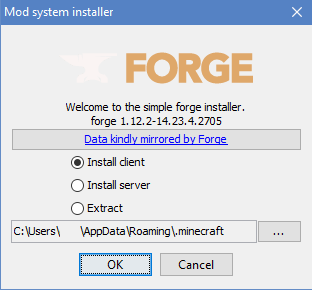
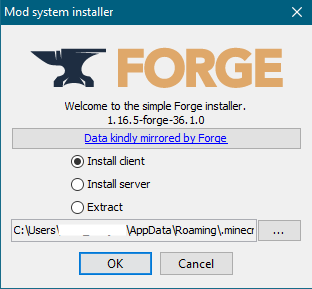
Update existing Java installation page
fix unrelated typo in scan tool page
delete old twitch installation images

diff --git a/source/installation/java.md b/source/installation/java.md
@@ -6,7 +6,7 @@ layout: default
 # Minecraft Java Edition
 
 - [Minecraft Java Edition](#minecraft-java-edition)
-    - [Installing MineColonies Mod on your original Minecraft Launcher.](#installing-minecolonies-mod-on-your-original-minecraft-launcher)
+    - [Installing MineColonies Mod on your original Minecraft Launcher](#installing-minecolonies-mod-on-your-original-minecraft-launcher)
         - [Download Forge](#download-forge)
         - [Run Forge Installer](#run-forge-installer)
         - [Download MineColonies](#download-minecolonies)
@@ -15,11 +15,11 @@ layout: default
             - [If Adding Pack, Extract it](#if-adding-pack-extract-it)
         - [Run Minecraft and Select Profile](#run-minecraft-and-select-profile)
 
-## Installing MineColonies Mod on your original Minecraft Launcher.
+## Installing MineColonies Mod on your original Minecraft Launcher
 
 - This process is for installing only the MineColonies mod in your original Minecraft launcher. You will *not* be able to connect to the **MineColonies Official Servers** due to the servers having a balanced variety of other mods as well.
 
-- For connecting to the Official Test Server, install [MultiMC](../installation/multimc) or use GDLauncher (no installation tutorial at this time). You can visit the [CurseForge](https://minecraft.curseforge.com/projects/minecolonies-testpack) site for a zip file containing all mods and the versions we are currently using on the Official Test Server, as well as all the appropriate configs, scripts and the server.dat file for our modpack Official Test Server. If all these additional mods, configs, scripts and the server.dat are downloaded and installed manually, you will be able to connect to our Official Test Server. 
+- For connecting to the official server, install [MultiMC](../installation/multimc), [GDLauncher](../installation/gdlauncher), or the [Curseforge Launcher](../installation/curseforge). You can visit the [CurseForge](https://www.curseforge.com/minecraft/modpacks/minecolonies-testpack) site for a zip file containing all mods (with the correct versions) we are currently using on the official server, as well as all the appropriate configs, scripts, and the server.dat file for our modpack official server. If all these additional mods, configs, scripts and the server.dat are downloaded and installed manually, you will be able to connect to our official server. 
 
 - Installation of the MineColonies mod is very simple. It does require Minecraft Forge to be able to integrate mods into the Minecraft game, though.
 
@@ -29,17 +29,17 @@ layout: default
 
 ### Download Forge
 
-Go to the [Minecraft Forge Download page](http://files.minecraftforge.net/?forums) and download the latest version.
+Go to the [Minecraft Forge Download page](http://files.minecraftforge.net) and download the latest version's *installer* (not the recommended version).
 
 ### Run Forge Installer
 
-Run the downloaded recommended version and make sure it's on Install Client (or Server if you plan to run a Minecraft Server). The installation path is preset according to Minecraft's standard installation path. If you have it installed in a different directory, change the installation directory. When it's done installting, you will see a complete message.
+Run the downloaded version and make sure it's on Install Client (or Server if you plan to run a Minecraft server). The installation path is preset according to Minecraft's standard installation path. If you have it installed in a different directory, change the installation directory. When it's done installing, you will see a complete message.
 
  ![Forge installer](../../assets/images/installation/forge_1.png)  ![Forge installed](../../assets/images/installation/forge_2.png) 
 
 ### Download MineColonies
 
-Go to the [MineColonies CurseForge Download page](https://curseforge.com/minecraft/mc-mods/minecolonies/files/all) site and download the latest 1.15.2 alpha version of MineColonies.
+Go to the [MineColonies CurseForge Download page](https://curseforge.com/minecraft/mc-mods/minecolonies/files/all) site and download the latest 1.16.5 alpha version of MineColonies.
 
 ### Navigate to Mods Folder
 
@@ -47,19 +47,21 @@ On your computer, go to the **.minecraft/mods** folder. To be able to find this 
 
 ### Copy MineColonies to Mods
 
-Once you are in the **.minecraft/mods** folder, copy the downloaded MineColonies file you downloaded in Step 1 and paste it here. NOTE: DO NOT extract the file if the option appears. Just put the .jar file in here without extracting its contents.
+Once you are in the **.minecraft/mods** folder, copy the downloaded MineColonies file you downloaded in the *Download MineColonies* step and paste it here. **Note:** DO NOT extract the file if the option appears. Just put the .jar file in here without extracting its contents.
 
 ### Do the Same Thing for Structurize
 
 Follow the last three steps, except for Structurize (which MineColonies needs to work). Find the download page for Structurize [here](https://www.curseforge.com/minecraft/mc-mods/structurize/files/all).
 
+MineColonies doesn't always accept the latest version of Structurize. To ensure you have the required version, first click on the MineColonies file name (on the Curseforge website). You'll be taken to the changelog, where it should say the accepted Structurize version at the top. Download that exact version.
+
 #### If Adding Pack, Extract It
 
-If you are adding the entire modpack to be able to play on the official server, then un-zip the zip file you got from CurseForge containing all the mod files here.
+If you are adding the entire modpack to be able to play on the official server, un-zip the zip file you got from CurseForge containing all the mod files. Copy the mod files to the *mods* folder as you did before.
 
 ### Run Minecraft and Select Profile
 
-Run your original Minecraft launcher. Make sure you have the **forge** profile loaded and hit play.
+Run your original Minecraft launcher. Make sure you have the **Forge** profile loaded and hit play. (You might need to go to Installations and create a new installation first.)
 
 ![Minecraft Launcher](../../assets/images/installation/forge_3.png)
 

diff --git a/source/items/scantool.md b/source/items/scantool.md
@@ -19,7 +19,7 @@ The scan tool is a very useful tool. With the scan tool, you can scan any struct
 </div>
 <br>
 
-**Hint:** There are two blocks in Minecolonies that are made specifically for helping players make schematics.
+**Hint:** There are two blocks in MineColonies that are made specifically for helping players make schematics.
 1. [Placeholder Block](../../source/items/placeholderblocks): This block will not be scanned and will use the block that is already there, like air, grass, cobblestone, etc.
 2. [Solid Placeholder Block](../../source/items/placeholderblocks): This block will guarantee the block placed will be solid according to the biome it's being built on. 
 
